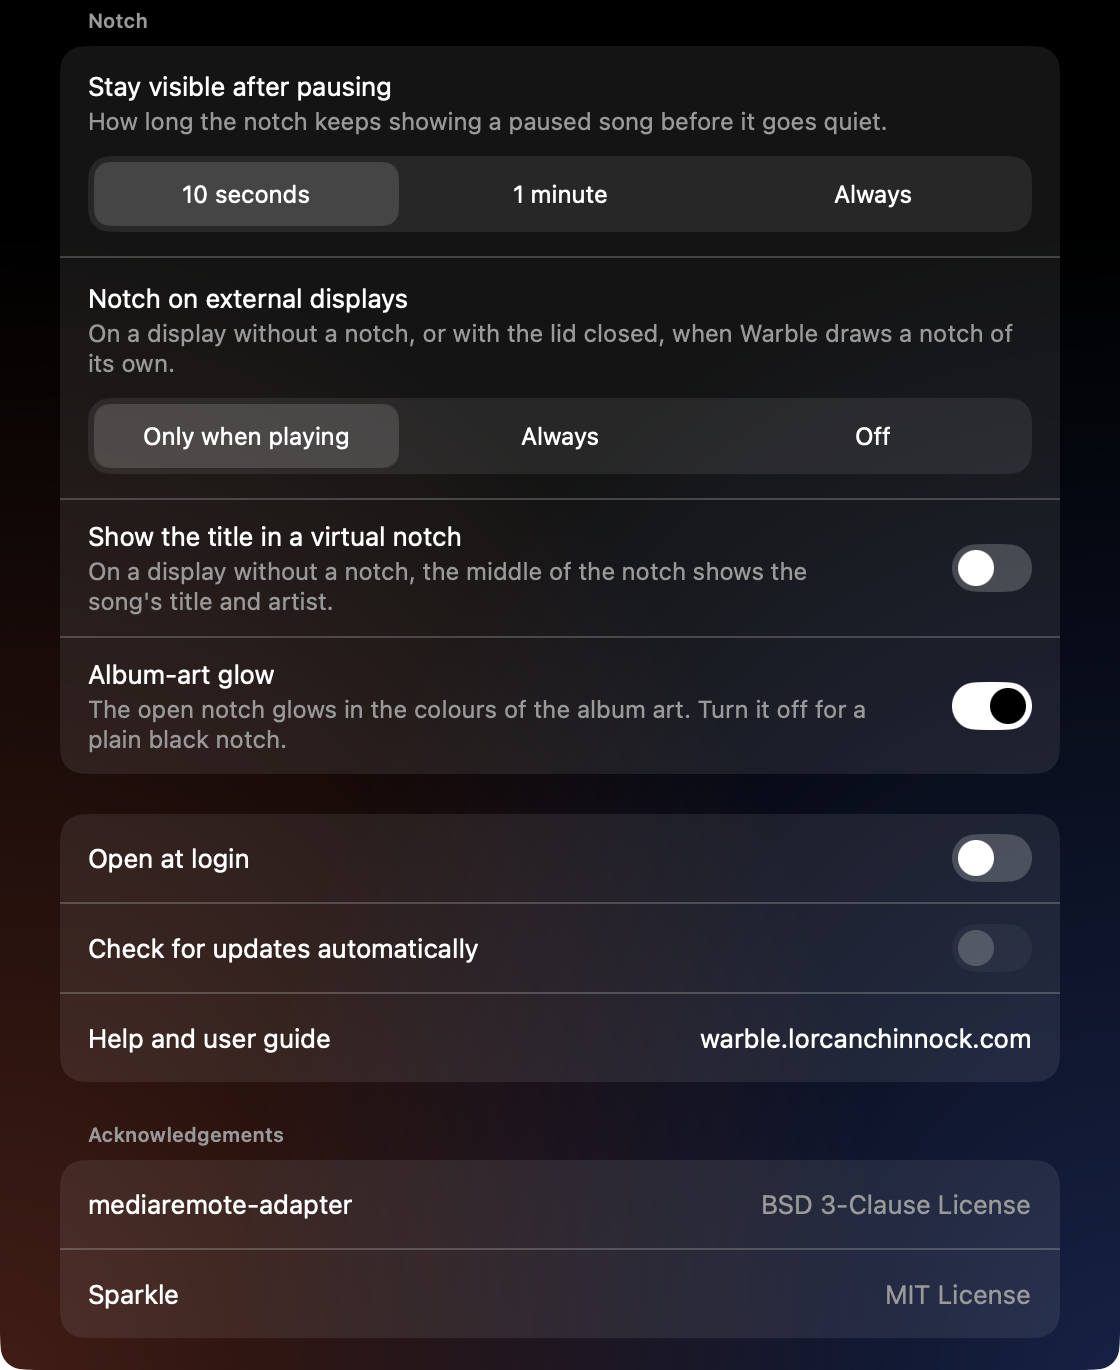
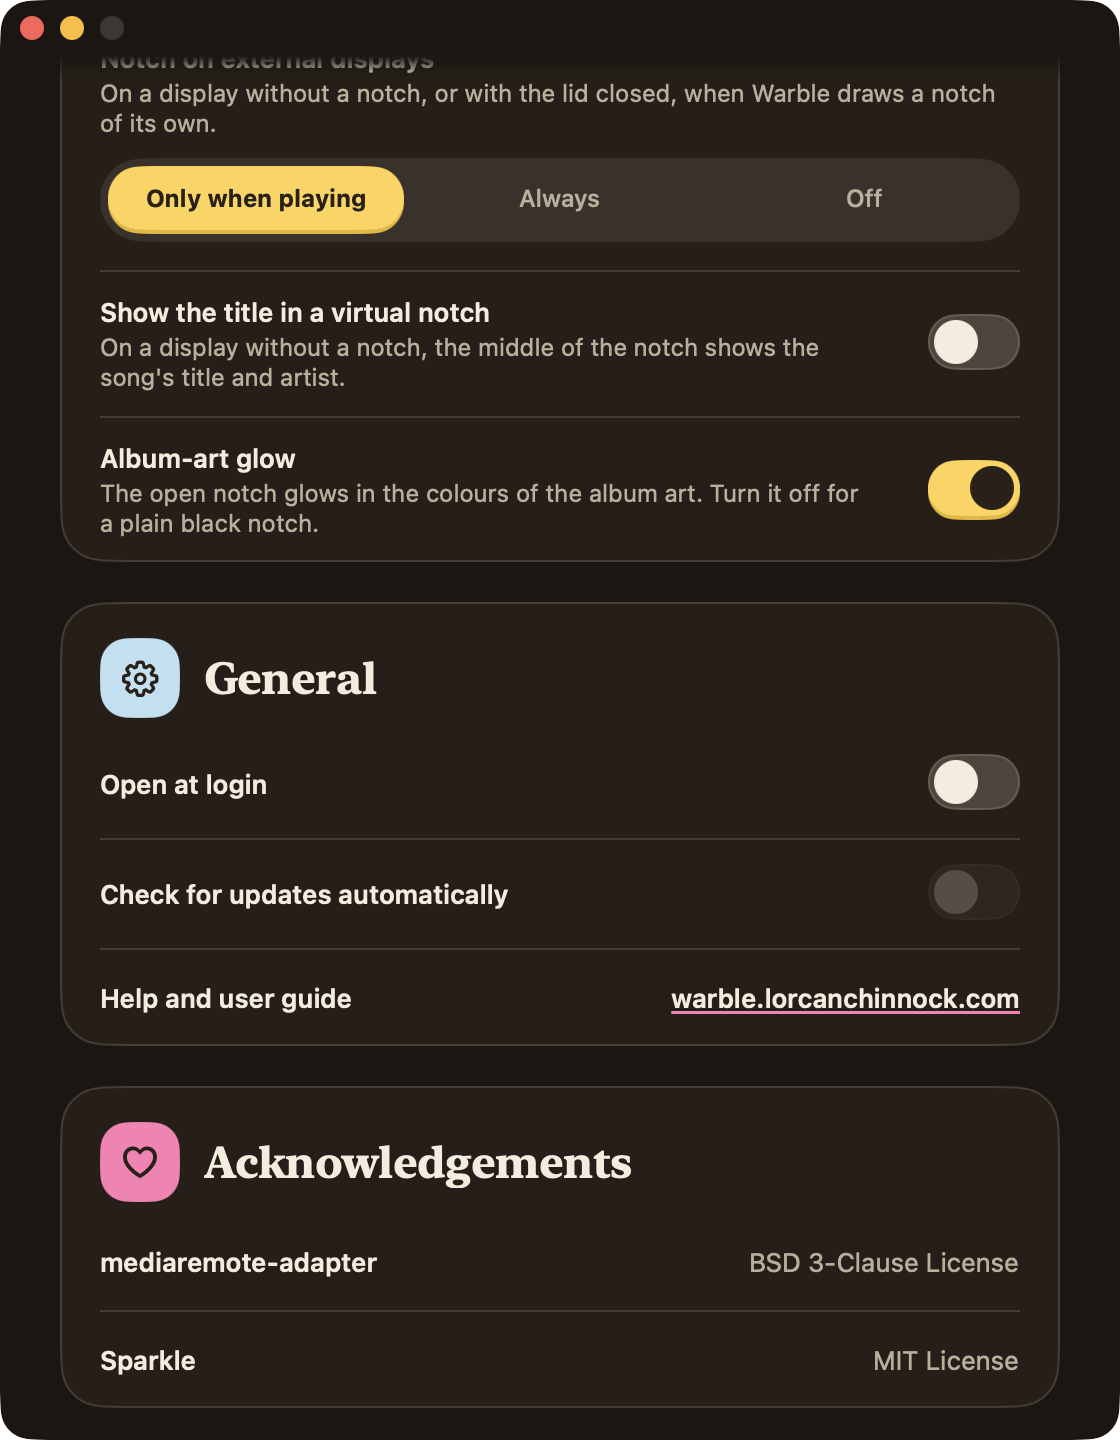
site: refresh the Settings screenshots in the guide (#352)
## What and why

Closes #350.

Both images on the guide's Settings page still showed the old black
window. They are retaken in dark mode from a build with the restyle
(#343) and the title-bar fix (#349), at the same size as before. The alt
text now says what each one shows. The first has the name, the version,
the preview and the first two Notch settings. The second has the
external-display setting, the two switches and the General card, with
the acknowledgements under it.

## How I tested it

- [x] The images are 1120 by 1440 at 2x, like the ones they replace,
captured with `screencapture -o -l` so there is no shadow.

diff --git a/site/src/guide/80-settings.md b/site/src/guide/80-settings.md
@@ -13,7 +13,7 @@ Warble works without changing anything. The things you may want to set are how l
 
 The right-click menu also opens the app that's playing, checks for updates and quits Warble. Settings follows your Mac's light or dark appearance, and uses the same cream and yellow as this website.
 
-![The Settings window, with the notch preview at the top and the pause and external-display settings under it](../../../docs/media/settings.png)
+![The Settings window: Warble's name and version, the notch preview, and the Notch settings for how long a paused song stays and how big the open notch is](../../../docs/media/settings.png)
 
 ## What's in Settings
 
@@ -28,7 +28,7 @@ At the top, under the version, is a small preview of the notch with a made-up so
 - **Check for updates automatically.** Warble goes online to check for updates, to find album covers for songs in your browser, and to find an artist's page when you click the artist. Click **Check for Updates…** to check right away, and the version you have is shown beside it.
 - **Help and user guide** opens this guide in your browser.
 
-![The rest of Settings: the title and glow switches, Open at login, updates and the user guide](../../../docs/media/settings-more.png)
+![The rest of Settings: the external-display setting and the title and glow switches, then the General card with Open at login, updates and the user guide, and the acknowledgements under it](../../../docs/media/settings-more.png)
 
 > [!NOTE]
 > Warble's animations follow **Reduce motion** in System Settings › Accessibility › Display.
